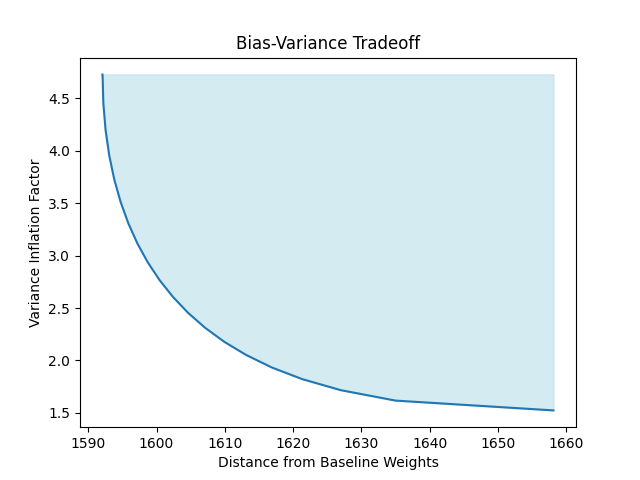
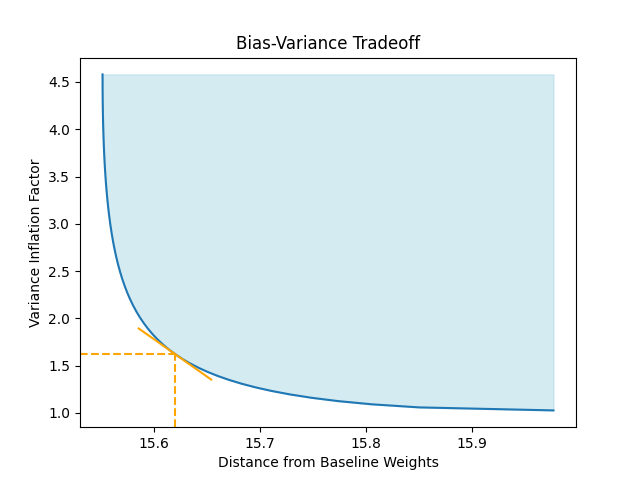
Annotate knee in EfficientFrontier

diff --git a/pyrake/frontier.py b/pyrake/frontier.py
@@ -16,25 +16,133 @@ class EfficientFrontierResults:
     def __init__(
         self,
         weights: List[npt.NDArray[np.float64]],
-        phis: List[float],
         distances: List[float],
+        variances: List[float],
+        lagrange_multipliers: List[float],
     ) -> None:
         self.weights = weights
-        self.phis = phis
         self.distances = distances
+        self.variances = variances
+        self.lagrange_multipliers = lagrange_multipliers
 
-    def plot(self, ax: Optional[Axes] = None) -> Axes:
-        """Plot bias/variance tradeoff."""
+    def plot(
+        self,
+        annotate_knee: bool = True,
+        annotate_index: Optional[int] = None,
+        ax: Optional[Axes] = None,
+    ) -> Axes:
+        """Plot bias/variance tradeoff.
+
+        Parameters
+        ----------
+         annotate_knee : bool, optional
+            If True, indicate the "knee in the curve" on the plot. See Notes.
+         annotate_index : int, optional
+            Indicate the tangent to the frontier at the point corresponding to
+            `annotate_index`. If specified, `annotate_knee` is ignored. By default, no
+            annotation is shown.
+         ax : matplotlib Axes, optional
+            If specified, plot frontier on `ax`.
+
+        Returns
+        -------
+         ax : matplotlib Axes
+
+        Notes
+        -----
+        Programmatically identifying the knee in the curve is still experimental. We use
+        the "max chord distance" method, which imagines a chord connecting the edges of
+        the frontier: the minimum distance/max variance to maximum distance/min
+        variance. Whichever point on the curve is farthest from this chord (as measured
+        by perpendicular distance) is selected as the knee. Note that only points
+        explicitly calculated during EfficientFrontier.trace() are considered, so the
+        true knee may be between two of the points considered.
+
+        """
         if ax is None:
             _, ax = plt.subplots()
-        ax.plot(self.distances, self.phis)
+
+        ax.plot(self.distances, self.variances)
         plt.fill_between(
-            self.distances, self.phis, max(self.phis), color="lightblue", alpha=0.5
+            self.distances,
+            self.variances,
+            max(self.variances),
+            color="lightblue",
+            alpha=0.5,
         )
+
+        if annotate_index is None and annotate_knee:
+            annotate_index = self.max_chord_distance()
+
+        if annotate_index is not None:
+            if not 0 <= annotate_index <= len(self.distances):
+                raise ValueError(f"Invalid {annotate_index=:}")
+
+            distance = self.distances[annotate_index]
+            phi = self.variances[annotate_index]
+
+            # The slope involves phi since under the hood, we're translating the
+            # constraint (1/M) * \| w \|_2^2 <= \phi to:
+            # (1 / (M * \phi)) * \| w \|_2^2 <= 1.
+            slope = -phi / self.lagrange_multipliers[annotate_index]
+
+            # This is an attempt to control the length of the tangent line when the
+            # tangent point is close to the left or right of the plot.
+            width = max(
+                min(
+                    0.5 * (distance - min(self.distances)),
+                    0.5 * (max(self.distances) - distance),
+                ),
+                0,
+            )
+            x_vals = np.linspace(distance - width, distance + width)
+            ax.plot(x_vals, phi + slope * (x_vals - distance), color="orange")
+
+            # Note the current plot boundaries so we don't move them.
+            xlim = plt.xlim()
+            ylim = plt.ylim()
+
+            # Draw dashed lines connecting point to axes.
+            ax.hlines(
+                y=phi,
+                xmin=xlim[0],
+                xmax=distance,
+                colors="orange",
+                linestyles="dashed",
+            )
+
+            ax.vlines(
+                x=distance,
+                ymin=ylim[0],
+                ymax=phi,
+                colors="orange",
+                linestyles="dashed",
+            )
+            # Reset plot boundaries.
+            ax.set_xlim(xlim[0], xlim[1])
+            ax.set_ylim(ylim[0], ylim[1])
+
         ax.set_xlabel("Distance from Baseline Weights")
         ax.set_ylabel("Variance Inflation Factor")
         ax.set_title("Bias-Variance Tradeoff")
         return ax
+
+    def max_chord_distance(self) -> int:
+        """Find the point of maximum chord distance."""
+        x1 = self.distances[0]
+        x2 = self.distances[-1]
+        y1 = self.variances[0]
+        y2 = self.variances[-1]
+        dy = y2 - y1
+        dx = x2 - x1
+        x2y1_y2x1 = x2 * y1 - y2 * x1
+        distances = np.array(
+            [
+                abs(dy * x - dx * y + x2y1_y2x1)
+                for x, y in zip(self.distances, self.variances)
+            ]
+        )
+        return int(distances.argmax())
 
 
 class EfficientFrontier:
@@ -43,7 +151,7 @@ class EfficientFrontier:
     Solves:
            minimize    D(w, v)
            subject to  (1/M) * X^T * w = \mu
-                        \| w \|_2^2 \leq \phi
+                       (1/M) * \| w \|_2^2 <= \phi
                         w >= 0,
     for a sequence of values for \phi. Increasing \phi involves more variance,
     but potentially less bias.
@@ -54,7 +162,7 @@ class EfficientFrontier:
         self.rake = rake
 
     def trace(
-        self, phi_max: Optional[float] = None, num_points: int = 20
+        self, phi_max: Optional[float] = None, num_points: int = 50
     ) -> EfficientFrontierResults:
         """Trace bias/variance tradeoff."""
         if self.rake.phase1_solver is None:
@@ -65,7 +173,8 @@ class EfficientFrontier:
         w0 = res_min.solution
         phi_min = np.dot(w0, w0) / self.rake.dimension
         weights = [w0]
-        phis = [phi_min]
+        variances = [phi_min]
+        lagrange_multipliers = [0.0]
         distances = [self.rake.distance.evaluate(w0)]
 
         # Find the feasible weights that most closely match baseline, regardless of
@@ -75,18 +184,25 @@ class EfficientFrontier:
         phi_max_nn = np.dot(res_max.solution, res_max.solution) / self.rake.dimension
 
         # Calculate a range of optimal weights between phi_min and phi_max
-        phi_grid = np.geomspace(phi_min, phi_max_nn, num=num_points)[1:]
+        phi_grid = np.geomspace(phi_min, phi_max_nn, num=num_points)[1:-1]
         w = w0
         for phi in phi_grid:
             self.rake.update_phi(phi)
             res = self.rake.solve(x0=w)
             weights.append(res.solution)
-            phis.append(phi)
+            variances.append(phi)
+            lagrange_multipliers.append(res.inequality_multipliers[-1])
             distances.append(res.objective_value)
             w = res.solution
 
         weights.append(res_max.solution)
-        phis.append(phi_max_nn)
+        variances.append(phi_max_nn)
+        lagrange_multipliers.append(res_max.inequality_multipliers[-1])
         distances.append(res_max.objective_value)
 
-        return EfficientFrontierResults(weights, phis, distances)
+        return EfficientFrontierResults(
+            weights=weights,
+            distances=distances,
+            variances=variances,
+            lagrange_multipliers=lagrange_multipliers,
+        )

diff --git a/pyrake/optimization.py b/pyrake/optimization.py
@@ -1169,7 +1169,9 @@ class EqualityConstrainedInteriorPointMethodSolver(BaseInteriorPointMethodSolver
 
         """
         delta_f0 = self.gradient(x0)
-        delta_phi = -self.grad_constraints_transpose_multiply(x0, 1.0 / self.constraints(x0))
+        delta_phi = -self.grad_constraints_transpose_multiply(
+            x0, 1.0 / self.constraints(x0)
+        )
 
         A_delta_f0 = self.A @ delta_f0
         A_delta_phi = self.A @ delta_phi
